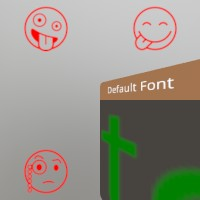
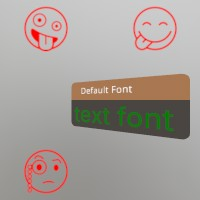
Nicer font example

Changed region(s): [[0.33, 0.27, 1.0, 1.0]]

diff --git a/src/font.rs b/src/font.rs
@@ -18,12 +18,15 @@ use std::{
 ///
 /// use stereokit_rust::{ui::Ui, maths::{Vec3, Quat, Pose, Matrix}, font::Font, system::Text, util::named_colors::{RED, GREEN} };
 ///
-/// // Load a font asset
-/// let mut emoji_font = Font::from_file("fonts/Noto_Emoji/NotoEmoji-VariableFont_wght.ttf").unwrap_or_default();
+/// // Load font assets
+/// let mut emoji_font = Font::from_file(
+///     "fonts/Noto_Emoji/NotoEmoji-VariableFont_wght.ttf").unwrap_or_default();
 /// let emoji_style = Some(Text::make_style(emoji_font, 0.35, RED));
-/// let mut text_font =  Font::from_file("fonts/Inter/Inter-VariableFont_opsz,wght.ttf").unwrap_or_default();
-/// let text_style = Text::make_style(text_font, 0.15, GREEN);
-/// let mut window_pose = Pose::new(Vec3::new(0.00, 0.0, 0.85), Some(Quat::from_angles(0.0, 130.0, 0.0)));
+/// let mut text_font =  Font::from_file(
+///     "fonts/Inter/Inter-VariableFont_opsz,wght.ttf").unwrap_or_default();
+/// let text_style = Text::make_style(text_font, 0.025, GREEN);
+/// let mut window_pose = Pose::new(
+///     Vec3::new(-0.05, 0.0, 0.85), Some(Quat::from_angles(0.0, 160.0, 0.0)));
 ///
 /// filename_scr = "screenshots/font.jpeg";
 /// test_screenshot!( // !!!! Get a proper main loop !!!!
@@ -31,7 +34,7 @@ use std::{
 ///
 ///     Ui::window_begin("Default Font", &mut window_pose, None, None, None);
 ///     Ui::push_text_style(text_style);
-///     Ui::text("text font", None, None, None, Some(0.90), None, None);
+///     Ui::text("text font", None, None, None, Some(0.14), None, None);
 ///     Ui::pop_text_style();
 ///     Ui::window_end();
 /// );
